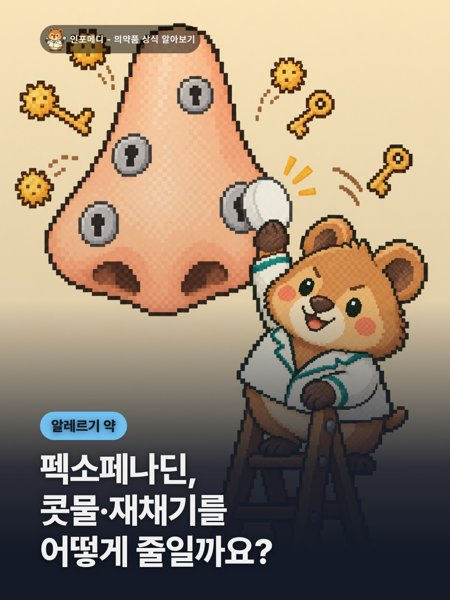
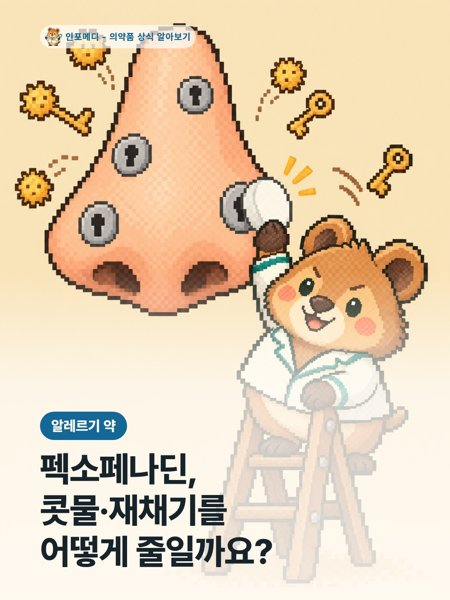
links

diff --git a/index.html b/index.html
@@ -34,7 +34,7 @@
 <section class="section">
 <h2>의약품 정보 <small id="count"></small></h2>
 <div class="grid" id="list">
-<a class="item" href="https://blog.naver.com/info_medi_/224429318996"><img src="c/펙소페나딘-white.jpg" alt="" loading="lazy">
+<a class="item" href="https://blog.naver.com/info_medi_/224429318996"><img src="c/펙소페나딘.jpg" alt="" loading="lazy">
 <span><b>펙소페나딘, 콧물·재채기를 어떻게 줄일까요?</b><small><time datetime="2026-10-07 07:47"></time></small></span></a>
 <a class="item" href="https://blog.naver.com/info_medi_/224431601487"><img src="c/베타시토스테롤.jpg" alt="" loading="lazy">
 <span><b>베타시토스테롤, 잇몸 영양제와 같은 걸까요?</b><small><time datetime="2026-10-06 21:55"></time></small></span></a>
